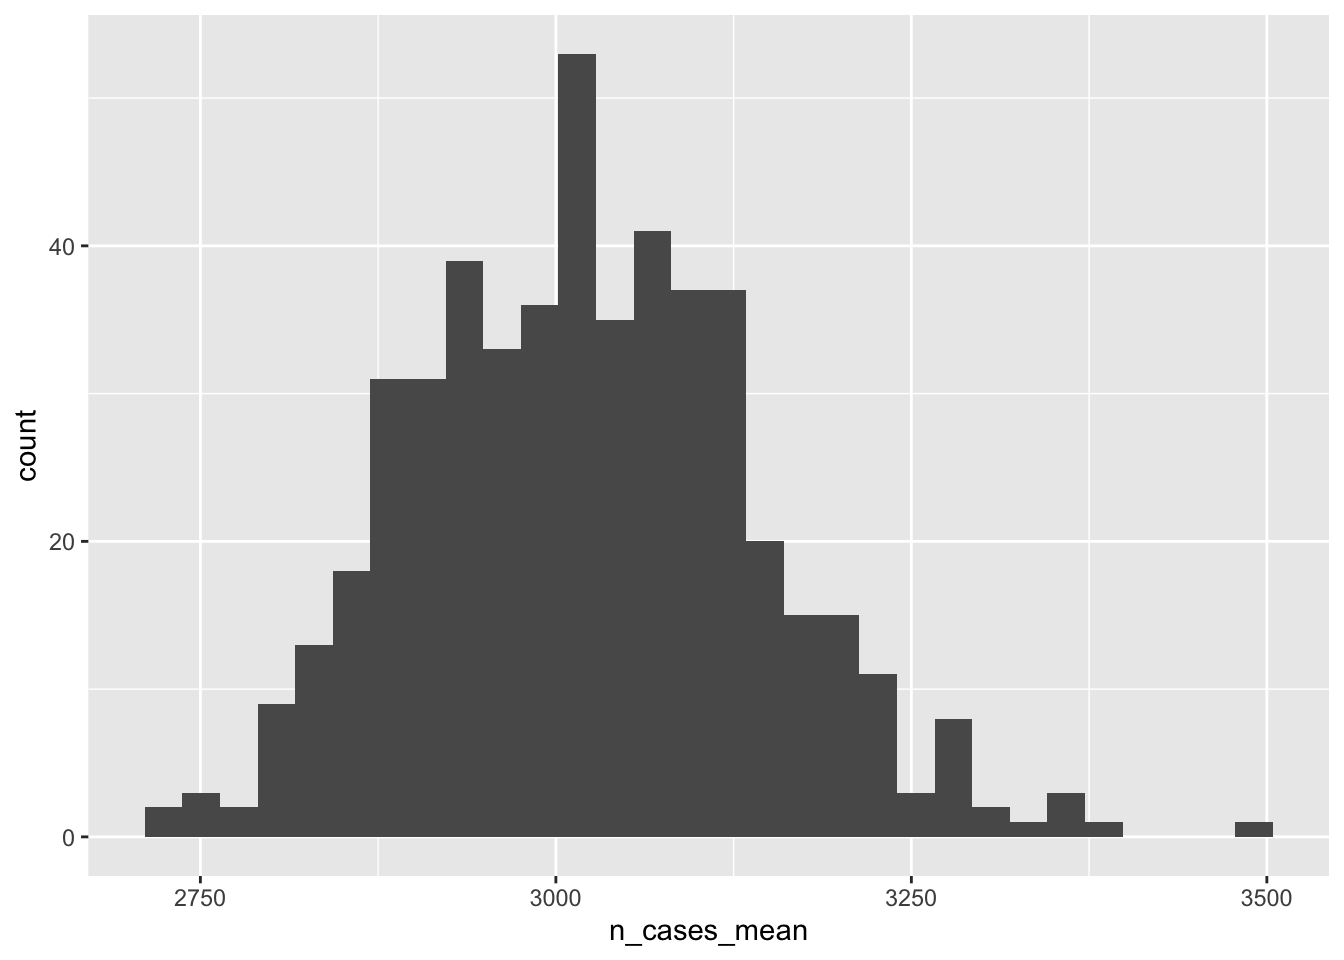
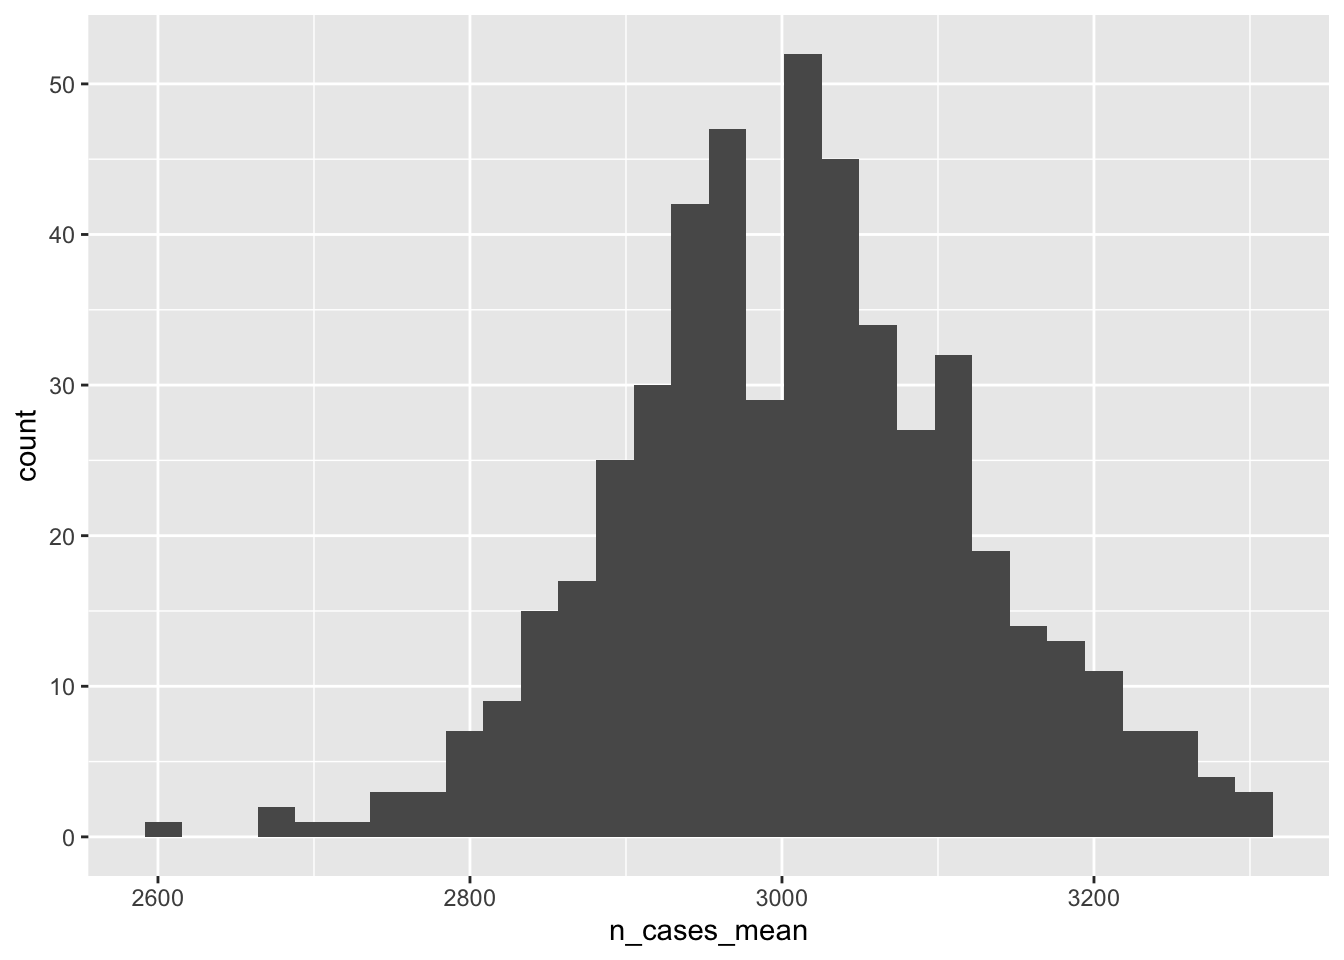
minor revisions to writing in module 5

diff --git a/docs/5-monte-carlo-boot-purrr.html b/docs/5-monte-carlo-boot-purrr.html
@@ -9,7 +9,7 @@
 <meta http-equiv="X-UA-Compatible" content="IE=EDGE" />
 
 
-<meta name="author" content="Michael D Garber" />
+<meta name="author" content="Michael D. Garber, PhD MPH" />
 
 <meta name="date" content="2022-08-12" />
 
@@ -369,7 +369,7 @@ div.tocify {
 
 
 <h1 class="title toc-ignore">Monte Carlo simulations and boots with the purrr::map_dfr()</h1>
-<h4 class="author">Michael D Garber</h4>
+<h4 class="author">Michael D. Garber, PhD MPH</h4>
 <h4 class="date">2022-08-12</h4>
 
 </div>
@@ -390,8 +390,8 @@ div.tocify {
 <h1><span class="header-section-number">2</span> Motivation</h1>
 <div id="sources-of-uncertainty-from-multiple-sources" class="section level2" number="2.1">
 <h2><span class="header-section-number">2.1</span> Sources of uncertainty from multiple sources</h2>
-<p>Almost any epidemiological or statistical analysis has uncertainty. Uncertainty may arise within the dataset available for analysis (the sample) or, if we aim to infer characteristics of a larger population from the sample, from sampling. For example, suppose we want to estimate the prevalence of Covid-19 in a county. To do so, we randomly sample 1,000 people from that county and test them using at-home antigen tests. Home tests have good specificity but fairly poor sensitivity,<span class="citation"><sup><a href="#ref-chu2022" role="doc-biblioref">1</a></sup></span> meaning some of the negative results probably were truly positive (false negative). And because the poor sensitivity is a property of the test, not the sampling, this error is expected to occur regardless of the sample size. In addition to this systematic error in measurement, uncertainty arises from the sampling because we don’t know if the Covid prevalence among the 1,000 people we tested represent that of the county. By chance, we could have tested a particularly healthy or sick sample.</p>
-<p>In our final estimate of prevalence, how would we go about summarizing its uncertainty, considering both the expected error in measurement and random error from sampling? Statistics of course has fundamental methods for estimating uncertainty from multiple sources, but many traditional methods involve complex math.<span class="citation"><sup><a href="#ref-distribu2022a" role="doc-biblioref">2</a></sup></span> To simplify the math, analysts often make assumptions that may not hold, for example that random variables considered in the analysis are independent from one another. In this particular example, the two sources of uncertainty (test accuracy and sampling) may be independent from one another, but that independence often does not hold.</p>
+<p>Almost any epidemiological or statistical analysis has uncertainty. Uncertainty may arise within the dataset available for analysis (the sample) or, if we aim to infer characteristics of a larger population from the sample, from sampling. For example, suppose we want to estimate the prevalence of Covid-19 in a county. To do so, we randomly sample 1,000 people from that county and test them using at-home antigen tests. Home tests have good specificity but fairly poor sensitivity,<span class="citation"><sup><a href="#ref-chu2022" role="doc-biblioref">1</a></sup></span> meaning some of the negative results were probably truly positive (false negative). And because the poor sensitivity is a property of the test, not the sampling, this error is expected to occur regardless of the sample size. In addition to this systematic error in measurement, uncertainty arises from the sampling because we don’t know if the Covid prevalence among the 1,000 people we tested represents that of the county. By chance, we could have tested a particularly healthy or sick sample.</p>
+<p>In our final estimate of prevalence, how would we go about summarizing its uncertainty, considering both the expected error in measurement and random error from sampling? Statistics of course has fundamental methods for estimating uncertainty from multiple sources, but many traditional methods for estimating variance involve complex math.<span class="citation"><sup><a href="#ref-distribu2022a" role="doc-biblioref">2</a></sup></span> To simplify the math, analysts often make assumptions that may not hold, for example that random variables considered in the analysis are independent from one another. In this particular example, the two sources of uncertainty (test accuracy and sampling) may be independent from one another, but that independence often does not hold.</p>
 </div>
 <div id="when-independence-between-sources-of-uncertainty-does-not-hold" class="section level2" number="2.2">
 <h2><span class="header-section-number">2.2</span> When independence between sources of uncertainty does not hold</h2>
@@ -400,7 +400,7 @@ div.tocify {
 </div>
 <div id="estimating-variability-via-repeated-resampling-of-random-variations" class="section level1" number="3">
 <h1><span class="header-section-number">3</span> Estimating variability via repeated (re)sampling of random variations</h1>
-<p>Fortunately, we can estimate uncertainty using the computer which largely obviates the need to do complex math. Two broad ways to estimate uncertainty using computer-based simulation techniques are <strong>Monte Carlo simulations</strong> and <strong>bootstrapping</strong>. In addition to easing the math, these simulation methods can help the analyst see how and when something varies in the analysis, which facilitates clarity and understanding.</p>
+<p>Fortunately, we can estimate uncertainty using computer simulations which largely obviates the need to do complex math. Two broad ways to estimate uncertainty using computer-based simulation techniques are <strong>Monte Carlo simulations</strong> and <strong>bootstrapping</strong>. In addition to easing the math, these simulation methods can help the analyst see how and when something varies in the analysis, which facilitates clarity and understanding.</p>
 <div id="monte-carlo-simulations" class="section level2" number="3.1">
 <h2><span class="header-section-number">3.1</span> Monte Carlo simulations</h2>
 <blockquote>
@@ -414,8 +414,8 @@ div.tocify {
 <blockquote>
 <p>“In statistics…, bootstrapping has come to mean to resampling [with replacement] repeatedly and randomly from an original, initial sample using each bootstrapped sample to compute a statistic. The resulting empirical distribution of the statistic is then examined and interpreted as an approximation to the true sampling distribution.”<span class="citation"><sup><a href="#ref-barreto2005" role="doc-biblioref">5</a></sup></span></p>
 </blockquote>
-<p>The bootstrap was introduced by Brad Efron in the late 1970s.<span class="citation"><sup><a href="#ref-bootstra2022c" role="doc-biblioref">6</a>,<a href="#ref-efron1979" role="doc-biblioref">7</a></sup></span> There are many forms of bootstrapping, including ways to bootstrap residuals from regression models.<span class="citation"><sup><a href="#ref-efron2016" role="doc-biblioref">8</a></sup></span> In its most basic form, to bootstrap means to re-sample observations from the sample, compute summary statistics from each re-sampled sample, and use the distribution of those summary statistics to infer the sampling distribution.</p>
-<p>The bootstrap is similar conceptually with Monte Carlo techniques because it involves randomly changing the data over repeated iterations and summarizing results of those iterations. The key difference is that the bootstrap estimates a distribution using data we have, and, under the Monte Carlo technique described, the distribution of each variable is specified by the analyst.</p>
+<p>The bootstrap was introduced by Bradley Efron in the late 1970s.<span class="citation"><sup><a href="#ref-bootstra2022c" role="doc-biblioref">6</a>,<a href="#ref-efron1979" role="doc-biblioref">7</a></sup></span> There are many forms of bootstrapping, including ways to bootstrap residuals from regression models.<span class="citation"><sup><a href="#ref-efron2016" role="doc-biblioref">8</a></sup></span> In its most basic form, to bootstrap means to re-sample observations from the sample, compute summary statistics from each re-sampled sample, and use the distribution of those summary statistics to infer the sampling distribution.</p>
+<p>The bootstrap is similar conceptually to Monte Carlo techniques because it involves randomly changing the data over repeated iterations and summarizing results of those iterations. The key difference is that the bootstrap estimates a distribution using data we have, and, under the Monte Carlo technique described, the distribution of each variable is specified by the analyst.</p>
 </div>
 </div>
 <div id="example-code-for-each-method-using-purrrmap_dfr" class="section level1" number="4">
@@ -489,7 +489,7 @@ monte_carlo_sim_frozen</code></pre>
     rename(county_id = value) %&gt;% 
     mutate(
       state = 1,
-      pop = rpois(n=n(), lambda=10000), #mean = var=1000
+      pop = rpois(n=n(), lambda=10000),  
       dem = rbinom(n=n(), size=1, prob =.5),
       prev = rtruncnorm(
         n=n(), 
@@ -537,16 +537,16 @@ monte_carlo_sim_lots  = rep_id_val_list %&gt;%
 <pre><code>## # A tibble: 50,000 × 7
 ##    county_id state   pop   dem  prev n_cases rep_id
 ##        &lt;int&gt; &lt;dbl&gt; &lt;int&gt; &lt;int&gt; &lt;dbl&gt;   &lt;int&gt;  &lt;int&gt;
-##  1         1     1  9995     1 0.641    6408      1
-##  2         2     1  9920     1 0.331    3285      1
-##  3         3     1  9912     1 0.323    3197      1
-##  4         4     1  9955     1 0.387    3853      1
-##  5         5     1 10173     0 0.203    2060      1
-##  6         6     1 10033     0 0.118    1179      1
-##  7         7     1  9961     1 0.373    3715      1
-##  8         8     1  9998     0 0.491    4905      1
-##  9         9     1 10014     0 0.139    1389      1
-## 10        10     1 10057     0 0.248    2497      1
+##  1         1     1  9895     1 0.650    6433      1
+##  2         2     1  9836     1 0.457    4490      1
+##  3         3     1  9983     1 0.317    3165      1
+##  4         4     1  9872     0 0.243    2400      1
+##  5         5     1  9911     0 0.265    2627      1
+##  6         6     1  9791     0 0.128    1256      1
+##  7         7     1 10010     0 0.252    2520      1
+##  8         8     1 10187     0 0.228    2324      1
+##  9         9     1 10047     0 0.231    2321      1
+## 10        10     1 10212     1 0.432    4411      1
 ## # … with 49,990 more rows
 ## # ℹ Use `print(n = ...)` to see more rows</code></pre>
 <p>How many rows?</p>
@@ -586,7 +586,7 @@ monte_carlo_sim_lots_summary</code></pre>
 <pre><code>## # A tibble: 1 × 5
 ##   state n_cases_mean_ll n_cases_mean_med n_cases_mean_ul simulation_type
 ##   &lt;dbl&gt;           &lt;dbl&gt;            &lt;dbl&gt;           &lt;dbl&gt; &lt;chr&gt;          
-## 1     1           2805.            3018.           3274. monte-carlo</code></pre>
+## 1     1           2792.            3012.           3244. monte-carlo</code></pre>
 </div>
 </div>
 <div id="bootstrap" class="section level2" number="4.2">
@@ -600,23 +600,23 @@ monte_carlo_sim_lots_summary</code></pre>
 <pre><code>## # A tibble: 100 × 6
 ##    county_id state   pop   dem  prev n_cases
 ##        &lt;int&gt; &lt;dbl&gt; &lt;int&gt; &lt;int&gt; &lt;dbl&gt;   &lt;int&gt;
-##  1        19     1 10000     0 0.527    5271
-##  2        93     1 10016     1 0.503    5042
-##  3        78     1  9947     0 0.255    2535
-##  4        97     1 10028     1 0.456    4568
-##  5        71     1  9944     1 0.410    4077
-##  6         2     1  9780     1 0.455    4448
-##  7        49     1 10033     1 0.347    3486
-##  8        77     1 10070     0 0.395    3975
-##  9        80     1  9987     1 0.452    4513
-## 10         5     1 10132     0 0.243    2464
+##  1        76     1 10019     0 0.340    3411
+##  2        64     1  9909     0 0.343    3403
+##  3        38     1 10078     0 0.394    3974
+##  4        74     1 10250     1 0.325    3329
+##  5        23     1 10068     0 0.350    3523
+##  6         5     1 10132     0 0.243    2464
+##  7        31     1 10002     0 0.197    1971
+##  8        37     1 10021     1 0.288    2886
+##  9        55     1  9987     0 0.254    2536
+## 10         7     1  9995     0 0.177    1773
 ## # … with 90 more rows
 ## # ℹ Use `print(n = ...)` to see more rows</code></pre>
 <p>As expected, we have the same number of rows, but fewer unique values for <code>county_id.</code> Some are repeating.</p>
 <pre class="r"><code>nrow(monte_carlo_sim_one_boot)</code></pre>
 <pre><code>## [1] 100</code></pre>
 <pre class="r"><code>n_distinct(monte_carlo_sim_one_boot$county_id)</code></pre>
-<pre><code>## [1] 58</code></pre>
+<pre><code>## [1] 65</code></pre>
 <p>Repeat this bootstrap procedure 500 times by first writing a function and then iterating replications through that function using <code>purrr::map_dfr()</code></p>
 <div id="define-a-function-for-replications-1" class="section level3" number="4.2.1">
 <h3><span class="header-section-number">4.2.1</span> Define a function for replications</h3>
@@ -638,16 +638,16 @@ monte_carlo_sim_lots_summary</code></pre>
 <pre><code>## # A tibble: 50,000 × 7
 ##    county_id state   pop   dem  prev n_cases rep_id
 ##        &lt;int&gt; &lt;dbl&gt; &lt;int&gt; &lt;int&gt; &lt;dbl&gt;   &lt;int&gt;  &lt;int&gt;
-##  1        28     1 10154     1 0.446    4533      1
-##  2        49     1 10033     1 0.347    3486      1
-##  3        70     1  9897     1 0.345    3413      1
-##  4        45     1 10006     1 0.396    3961      1
-##  5        49     1 10033     1 0.347    3486      1
-##  6        99     1  9864     0 0.232    2285      1
-##  7        76     1 10019     0 0.340    3411      1
-##  8        60     1 10036     0 0.237    2382      1
-##  9        33     1  9912     0 0.121    1203      1
-## 10        38     1 10078     0 0.394    3974      1
+##  1         4     1  9884     0 0.238    2352      1
+##  2        81     1 10048     0 0.206    2072      1
+##  3        77     1 10070     0 0.395    3975      1
+##  4         9     1  9965     0 0.223    2219      1
+##  5        14     1  9940     0 0.246    2443      1
+##  6        22     1  9901     1 0.370    3660      1
+##  7        90     1  9986     1 0.138    1375      1
+##  8        41     1 10015     1 0.468    4684      1
+##  9        99     1  9864     0 0.232    2285      1
+## 10        98     1 10105     1 0.251    2539      1
 ## # … with 49,990 more rows
 ## # ℹ Use `print(n = ...)` to see more rows</code></pre>
 <p>What’s the distribution of <code>n_cases_mean</code> over bootstrap replications?</p>
@@ -678,15 +678,15 @@ boot_lots_summary</code></pre>
 <pre><code>## # A tibble: 1 × 5
 ##   state n_cases_mean_ll n_cases_mean_med n_cases_mean_ul simulation_type
 ##   &lt;dbl&gt;           &lt;dbl&gt;            &lt;dbl&gt;           &lt;dbl&gt; &lt;chr&gt;          
-## 1     1           2821.            3054.           3295. bootstrap</code></pre>
+## 1     1           2808.            3056.           3312. bootstrap</code></pre>
 <p>How does this estimate of the sampling distribution of <code>n_cases_mean</code> align with the truth? We happen to know the truth here. It’s the distribution of <code>n_cases_mean</code> between the Monte Carlo simulations, defined above.</p>
 <pre class="r"><code>monte_carlo_sim_lots_summary %&gt;% 
   bind_rows(boot_lots_summary)</code></pre>
 <pre><code>## # A tibble: 2 × 5
 ##   state n_cases_mean_ll n_cases_mean_med n_cases_mean_ul simulation_type
 ##   &lt;dbl&gt;           &lt;dbl&gt;            &lt;dbl&gt;           &lt;dbl&gt; &lt;chr&gt;          
-## 1     1           2805.            3018.           3274. monte-carlo    
-## 2     1           2821.            3054.           3295. bootstrap</code></pre>
+## 1     1           2792.            3012.           3244. monte-carlo    
+## 2     1           2808.            3056.           3312. bootstrap</code></pre>
 </div>
 </div>
 </div>
@@ -732,7 +732,7 @@ function_result_one_county</code></pre>
 <pre><code>## # A tibble: 1 × 5
 ##   state county_id example_var_x example_var_y example_var_z
 ##   &lt;dbl&gt;     &lt;int&gt;         &lt;dbl&gt;         &lt;dbl&gt;         &lt;int&gt;
-## 1     1         2        -0.968             4             0</code></pre>
+## 1     1         2        -0.266             4             1</code></pre>
 </div>
 <div id="references" class="section level1 unnumbered">
 <h1><strong>References</strong></h1>
